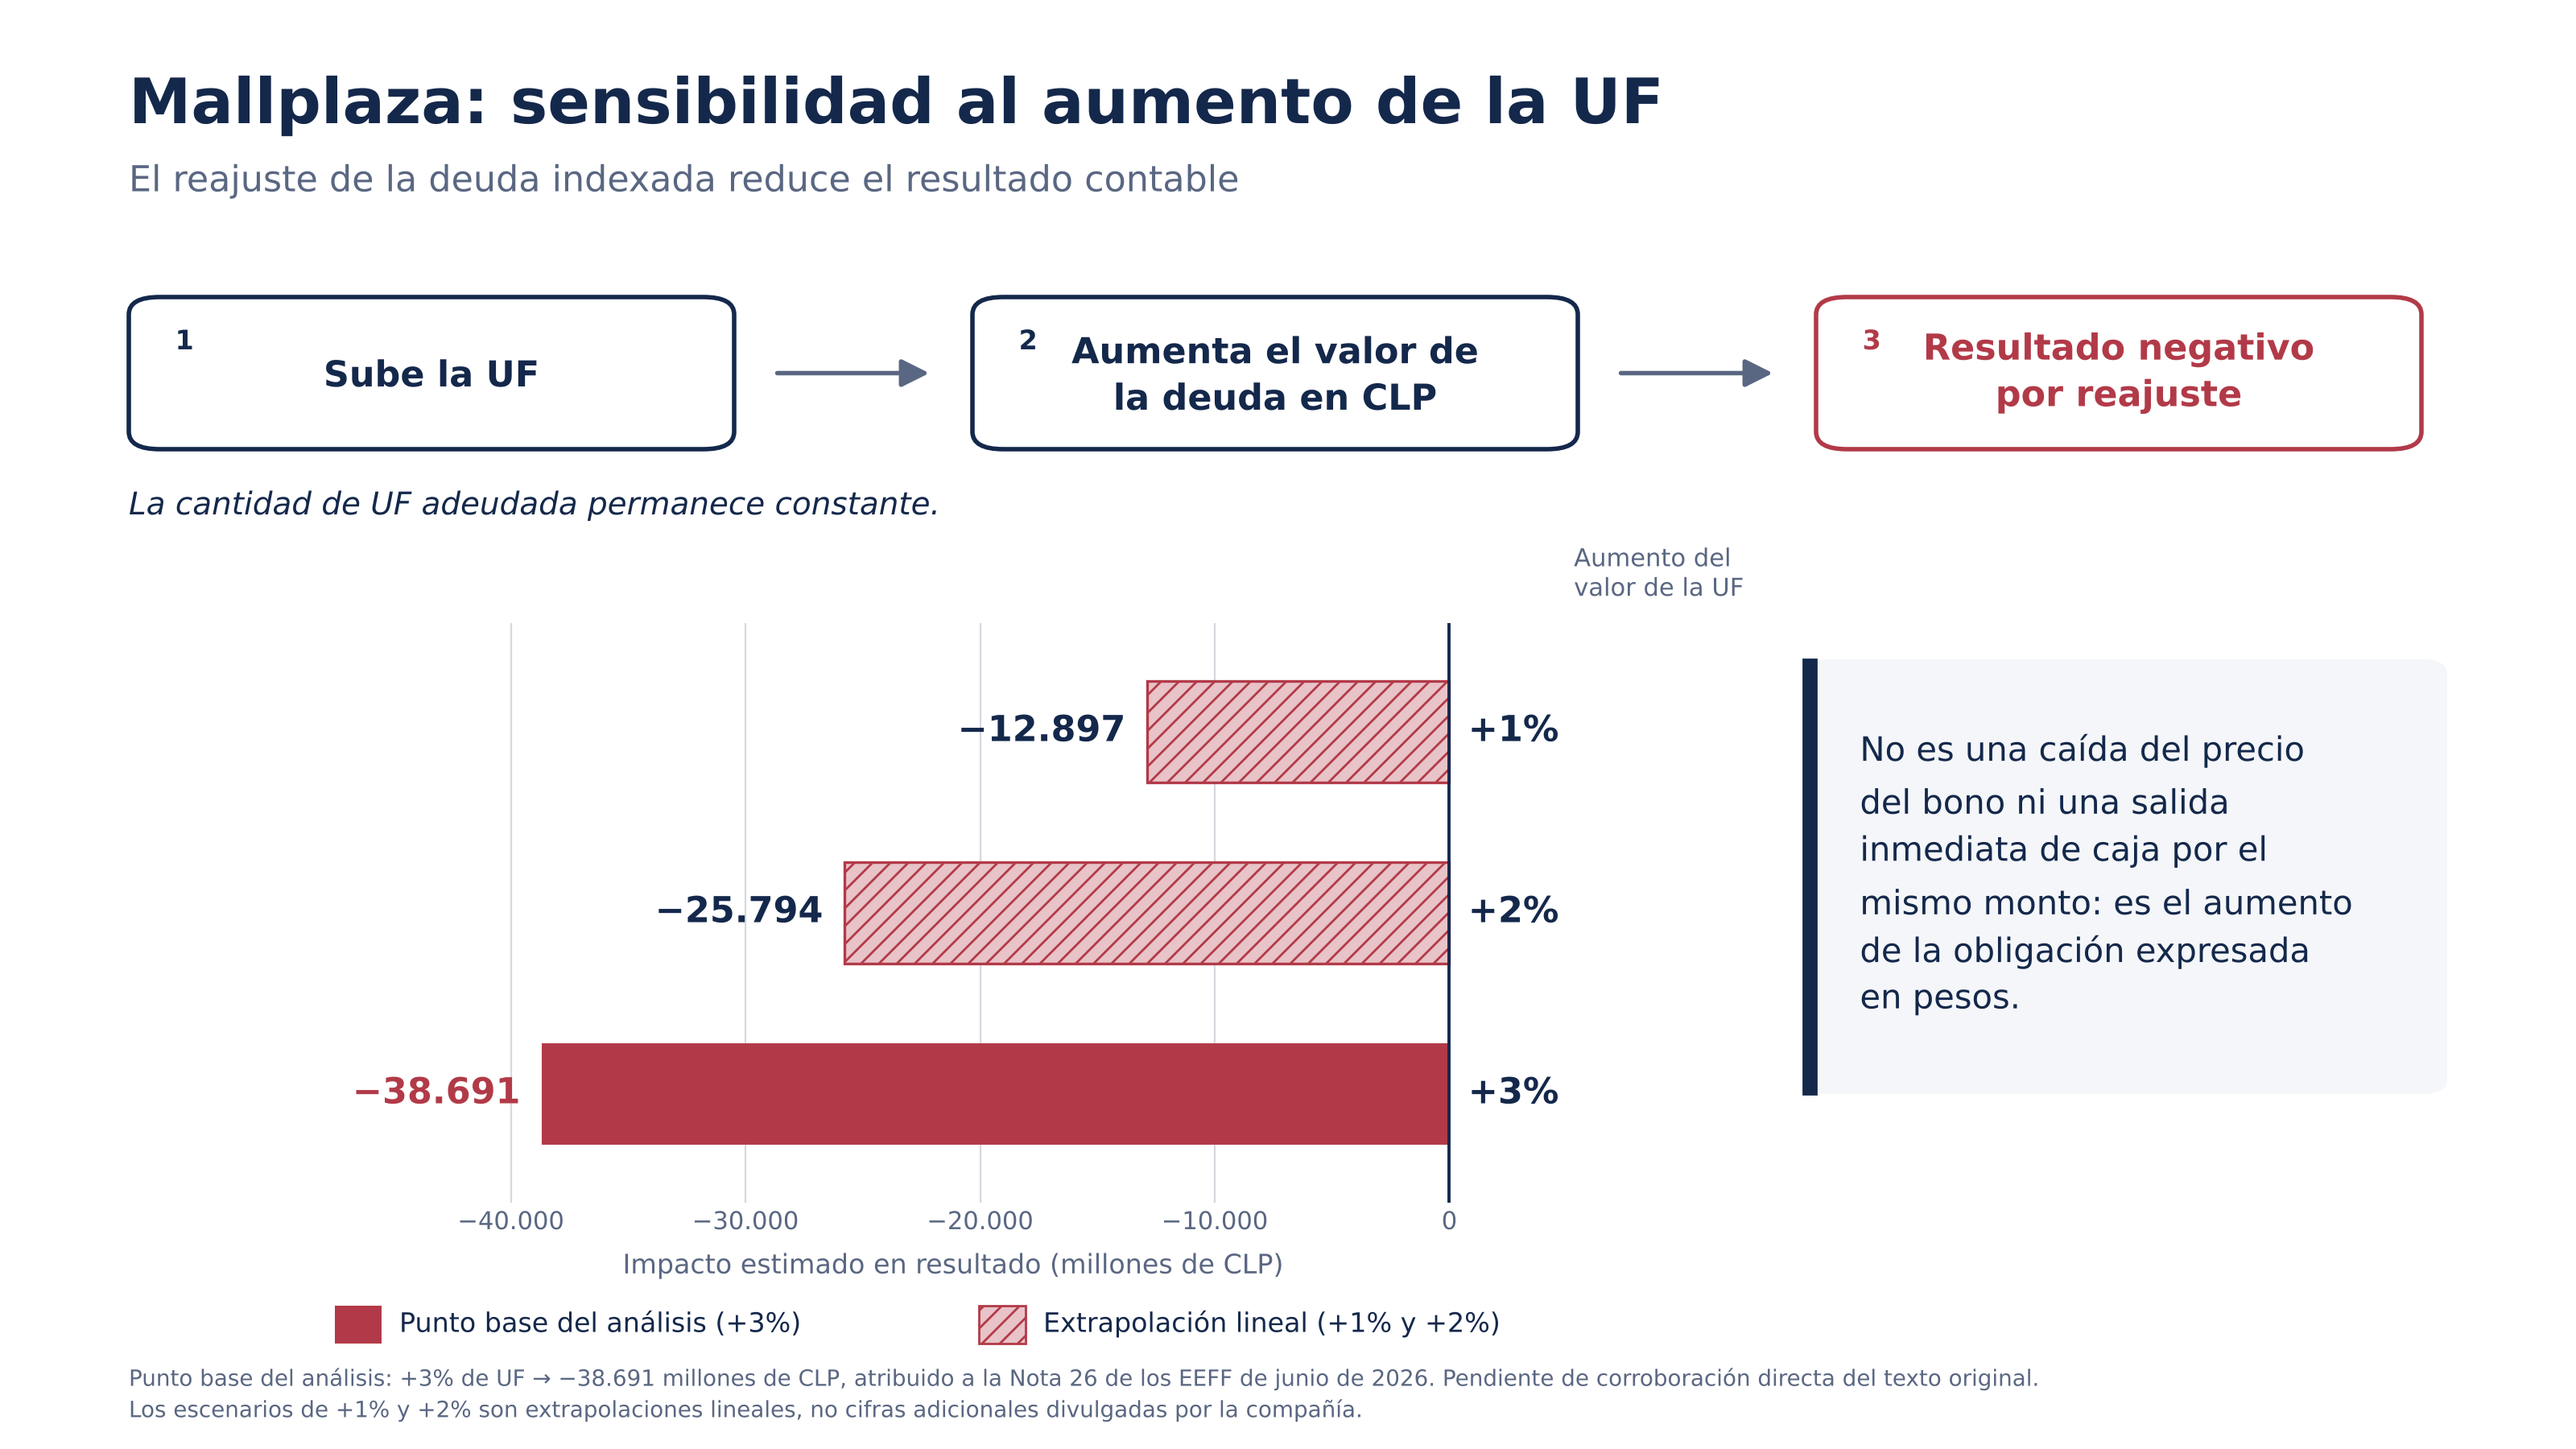
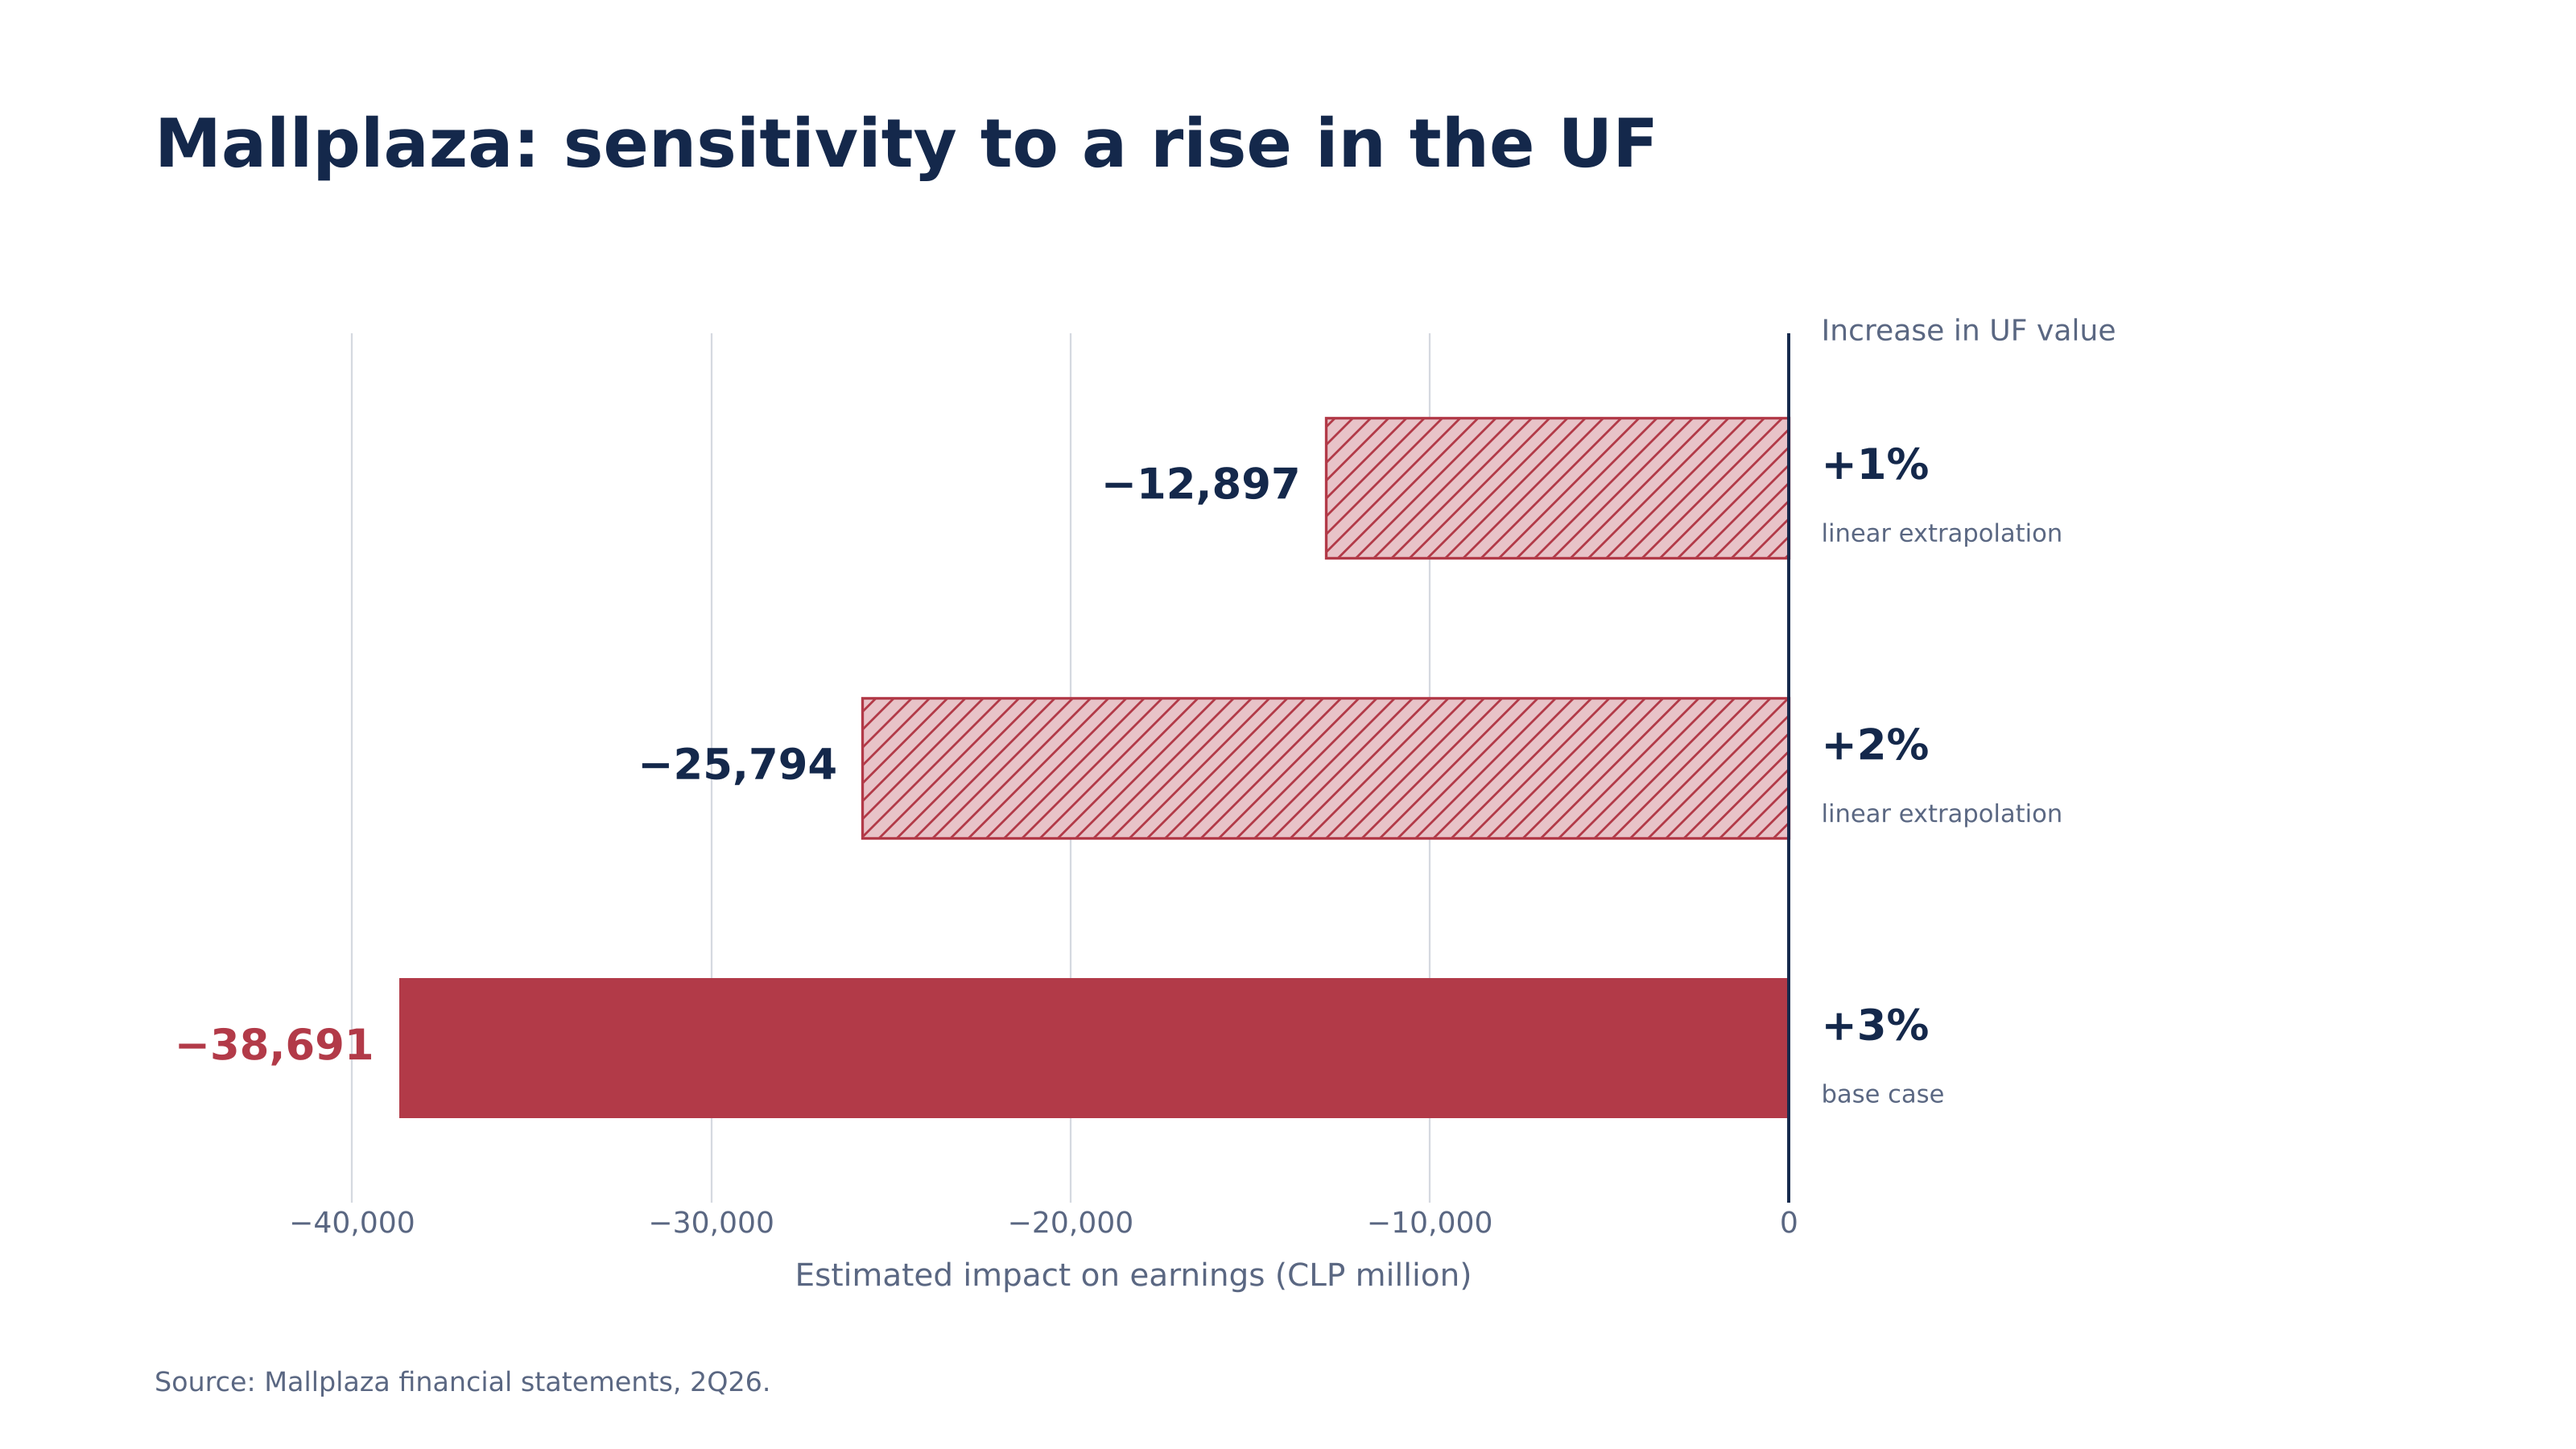
Simplify UF sensitivity exhibit to title, chart and source in English
Claude-Session: https://claude.ai/code/session_0188QZHBkA8n5QL7BtmFakQg

diff --git a/graficos/reajuste_uf.py b/graficos/reajuste_uf.py
@@ -1,7 +1,7 @@
 """Mallplaza: sensibilidad del resultado al aumento de la UF (reajuste de deuda indexada).
 
-Punto base: +3% de UF → −38.691 MM CLP (atribuido a Nota 26, EEFF jun-26; pendiente
-de corroboración). +1% y +2% son extrapolaciones lineales.
+Punto base: +3% de UF → −38.691 MM CLP (Nota 26, EEFF jun-26). +1% y +2% son
+extrapolaciones lineales.
 
 Uso:
     python graficos/reajuste_uf.py [salida_sin_extension]
@@ -9,14 +9,12 @@ Uso:
 import sys
 
 import matplotlib.pyplot as plt
-from matplotlib.patches import FancyArrowPatch, FancyBboxPatch, Rectangle
 
 AZUL = "#14284b"
 AZUL_SECUNDARIO = "#5a6782"
 ROJO = "#b23a48"
 ROJO_CLARO = "#e8c3c8"
 LINEA = "#d5d9e0"
-FONDO_CAJA = "#f4f6f9"
 
 IMPACTO_BASE = -38_691  # MM CLP para +3% de UF
 VARIACION_BASE = 3
@@ -28,7 +26,7 @@ def impacto(variacion_pct):
 
 
 def clp(x):
-    return f"{x:,.0f}".replace(",", ".").replace("-", "−")
+    return f"{x:,.0f}".replace("-", "−")
 
 
 def graficar(salida):
@@ -39,87 +37,40 @@ def graficar(salida):
     fig = plt.figure(figsize=(16, 9))
     fig.patch.set_facecolor("white")
 
-    fig.text(0.05, 0.915, "Mallplaza: sensibilidad al aumento de la UF",
-             fontsize=28, fontweight="bold", color=AZUL)
-    fig.text(0.05, 0.868, "El reajuste de la deuda indexada reduce el resultado contable",
-             fontsize=16, color=AZUL_SECUNDARIO)
+    fig.text(0.06, 0.885, "Mallplaza: sensitivity to a rise in the UF",
+             fontsize=30, fontweight="bold", color=AZUL)
 
-    # 1. Secuencia de tres pasos
-    pasos = [("Sube la UF", AZUL), ("Aumenta el valor de\nla deuda en CLP", AZUL),
-             ("Resultado negativo\npor reajuste", ROJO)]
-    ancho, alto, y0, x0, sep = 0.235, 0.105, 0.69, 0.05, 0.0925
-    for i, (texto, color) in enumerate(pasos):
-        x = x0 + i * (ancho + sep)
-        fig.add_artist(FancyBboxPatch(
-            (x, y0), ancho, alto, boxstyle="round,pad=0,rounding_size=0.012",
-            transform=fig.transFigure, facecolor="white", edgecolor=color, linewidth=2))
-        fig.text(x + 0.018, y0 + alto - 0.022, str(i + 1), fontsize=12,
-                 fontweight="bold", color=color, va="top")
-        fig.text(x + ancho / 2, y0 + alto / 2, texto, fontsize=16, fontweight="bold",
-                 color=color, ha="center", va="center", linespacing=1.3)
-        if i < len(pasos) - 1:
-            fig.add_artist(FancyArrowPatch(
-                (x + ancho + 0.015, y0 + alto / 2), (x + ancho + sep - 0.015, y0 + alto / 2),
-                transform=fig.transFigure, arrowstyle="-|>", mutation_scale=26,
-                color=AZUL_SECUNDARIO, linewidth=2))
-    fig.text(0.05, 0.645, "La cantidad de UF adeudada permanece constante.",
-             fontsize=14, color=AZUL, style="italic")
-
-    # 2. Barras horizontales: impacto negativo desde cero hacia la izquierda
-    ax = fig.add_axes([0.13, 0.17, 0.48, 0.40])
+    ax = fig.add_axes([0.06, 0.17, 0.76, 0.6])
     ys = list(range(len(ESCENARIOS)))[::-1]
     for y, v in zip(ys, ESCENARIOS):
         base = v == VARIACION_BASE
-        ax.barh(y, valores[v], height=0.56, color=ROJO if base else ROJO_CLARO,
+        ax.barh(y, valores[v], height=0.5, color=ROJO if base else ROJO_CLARO,
                 edgecolor=ROJO, linewidth=0 if base else 1.2,
                 hatch=None if base else "///")
-        ax.text(valores[v] - 900, y, clp(valores[v]), ha="right", va="center",
-                fontsize=16, fontweight="bold", color=ROJO if base else AZUL)
-        ax.text(800, y, f"+{v}%", ha="left", va="center", fontsize=16,
+        ax.text(valores[v] - 700, y, clp(valores[v]), ha="right", va="center",
+                fontsize=19, fontweight="bold", color=ROJO if base else AZUL)
+        ax.text(900, y + 0.07, f"+{v}%", ha="left", va="center", fontsize=19,
                 fontweight="bold", color=AZUL)
+        ax.text(900, y - 0.17, "base case" if base else "linear extrapolation",
+                ha="left", va="center", fontsize=11, color=AZUL_SECUNDARIO)
     ax.axvline(0, color=AZUL, linewidth=1.4)
-    ax.set_xlim(-47_500, 5_200)
-    ax.set_ylim(-0.6, len(ESCENARIOS) - 0.4)
+    ax.set_xlim(-45_500, 9_000)
+    ax.set_ylim(-0.55, len(ESCENARIOS) - 0.45)
     ax.set_yticks([])
     ax.set_xticks([-40_000, -30_000, -20_000, -10_000, 0])
     ax.xaxis.set_major_formatter(lambda x, _: clp(x))
-    ax.tick_params(axis="x", length=0, colors=AZUL_SECUNDARIO, labelsize=11)
+    ax.tick_params(axis="x", length=0, colors=AZUL_SECUNDARIO, labelsize=13)
     ax.grid(axis="x", color=LINEA, linewidth=0.8)
     ax.set_axisbelow(True)
     for lado in ax.spines.values():
         lado.set_visible(False)
-    ax.set_xlabel("Impacto estimado en resultado (millones de CLP)",
-                  fontsize=12, color=AZUL_SECUNDARIO, labelpad=8)
-    fig.text(0.611, 0.585, "Aumento del\nvalor de la UF", fontsize=11,
-             color=AZUL_SECUNDARIO, ha="left", va="bottom", linespacing=1.2)
+    ax.set_xlabel("Estimated impact on earnings (CLP million)",
+                  fontsize=14, color=AZUL_SECUNDARIO, labelpad=10)
+    ax.text(900, len(ESCENARIOS) - 0.5, "Increase in UF value", ha="left",
+            va="bottom", fontsize=13, color=AZUL_SECUNDARIO)
 
-    # Leyenda: punto base vs extrapolación
-    for i, (texto, relleno, trama) in enumerate(
-            [("Punto base del análisis (+3%)", ROJO, None),
-             ("Extrapolación lineal (+1% y +2%)", ROJO_CLARO, "///")]):
-        x = 0.13 + i * 0.25
-        fig.add_artist(Rectangle((x, 0.073), 0.018, 0.026, transform=fig.transFigure,
-                                 facecolor=relleno, edgecolor=ROJO,
-                                 linewidth=0 if trama is None else 1, hatch=trama))
-        fig.text(x + 0.025, 0.086, texto, fontsize=12, color=AZUL, va="center")
-
-    # 3. Recuadro aclaratorio
-    fig.add_artist(FancyBboxPatch(
-        (0.70, 0.245), 0.25, 0.30, boxstyle="round,pad=0,rounding_size=0.01",
-        transform=fig.transFigure, facecolor=FONDO_CAJA, edgecolor="none"))
-    fig.add_artist(Rectangle((0.70, 0.245), 0.005, 0.30, transform=fig.transFigure,
-                             color=AZUL))
-    fig.text(0.722, 0.395,
-             "No es una caída del precio\ndel bono ni una salida\ninmediata de caja por el\n"
-             "mismo monto: es el aumento\nde la obligación expresada\nen pesos.",
-             fontsize=15, color=AZUL, va="center", linespacing=1.5)
-
-    fig.text(0.05, 0.022,
-             "Punto base del análisis: +3% de UF → −38.691 millones de CLP, atribuido a la Nota 26 "
-             "de los EEFF de junio de 2026. Pendiente de corroboración directa del texto original.\n"
-             "Los escenarios de +1% y +2% son extrapolaciones lineales, no cifras adicionales "
-             "divulgadas por la compañía.",
-             fontsize=10, color=AZUL_SECUNDARIO, linespacing=1.4)
+    fig.text(0.06, 0.04, "Source: Mallplaza financial statements, 2Q26.",
+             fontsize=12, color=AZUL_SECUNDARIO)
 
     fig.savefig(f"{salida}.png", dpi=200, facecolor="white")
     fig.savefig(f"{salida}.svg", facecolor="white")
